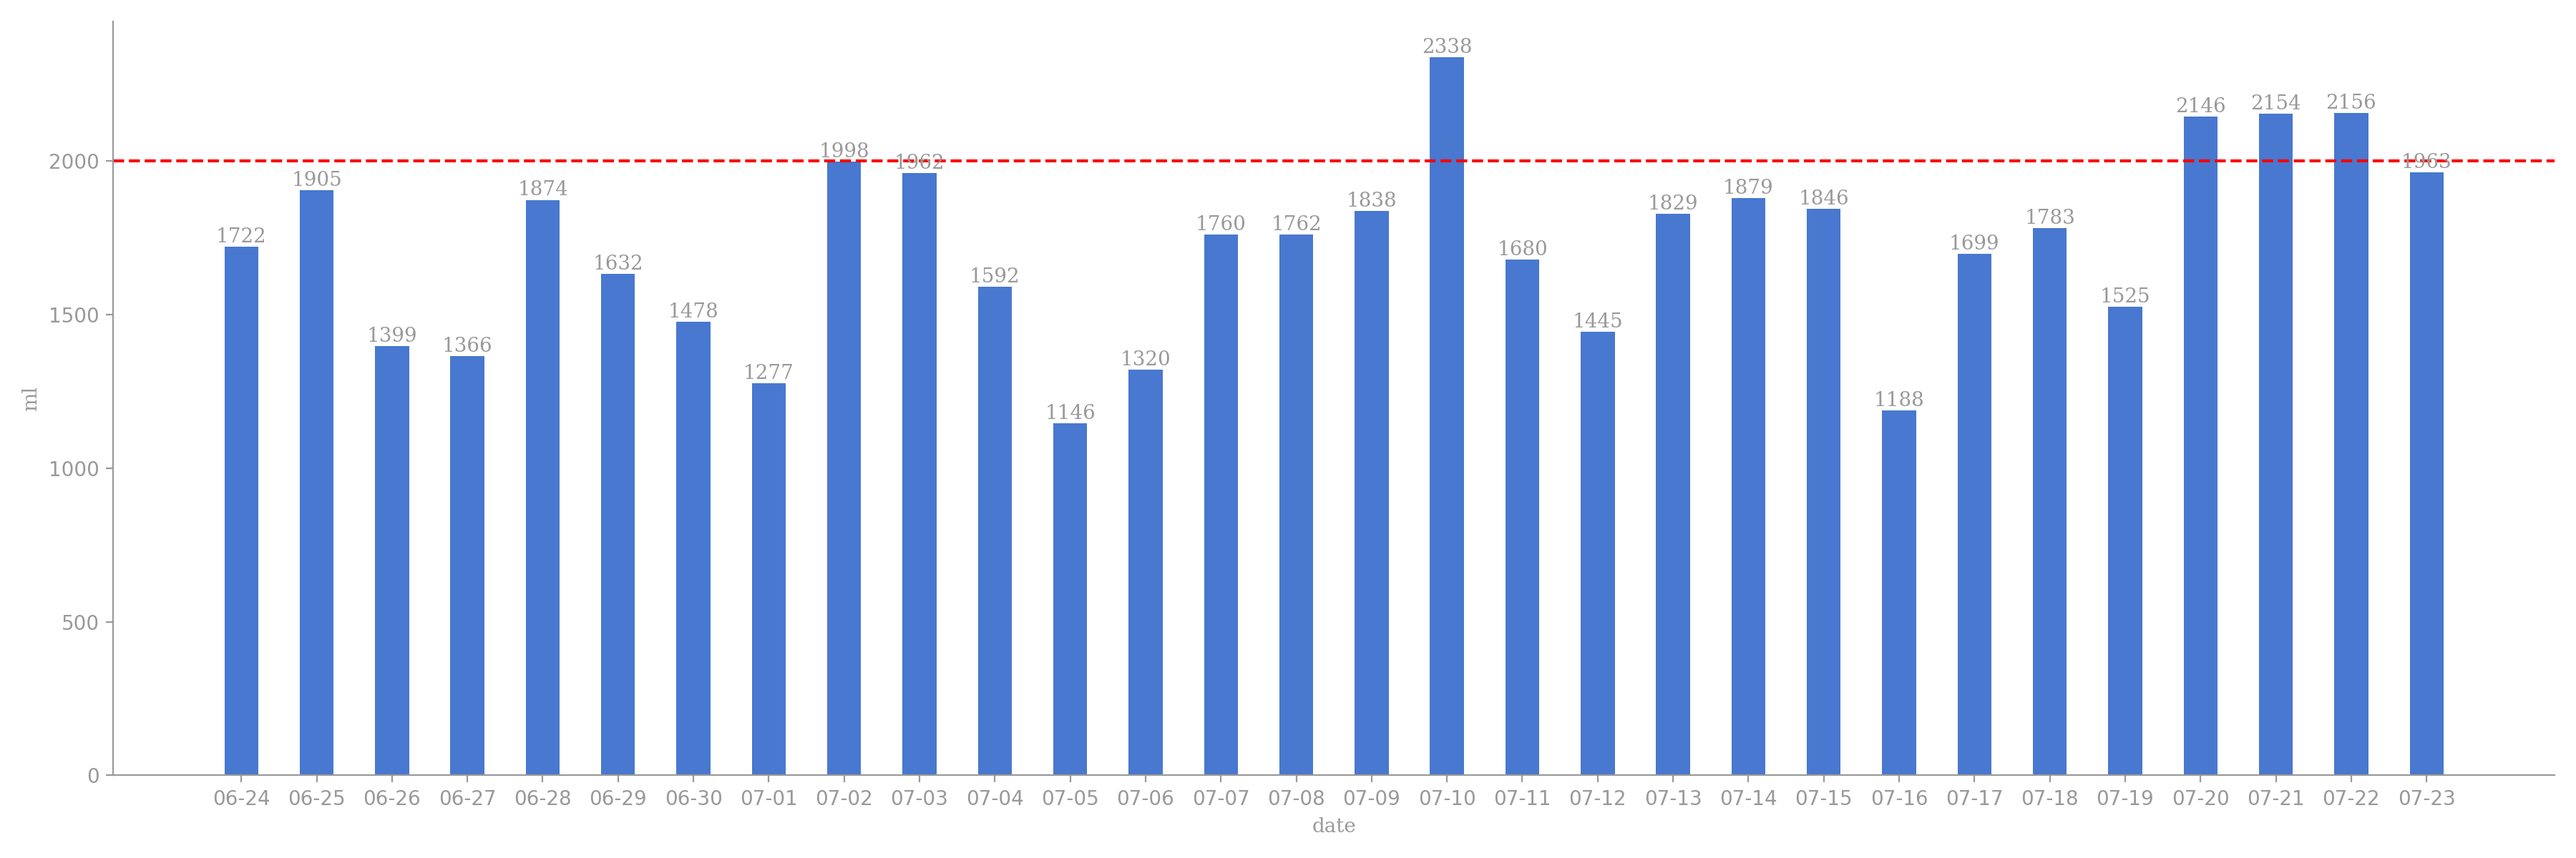
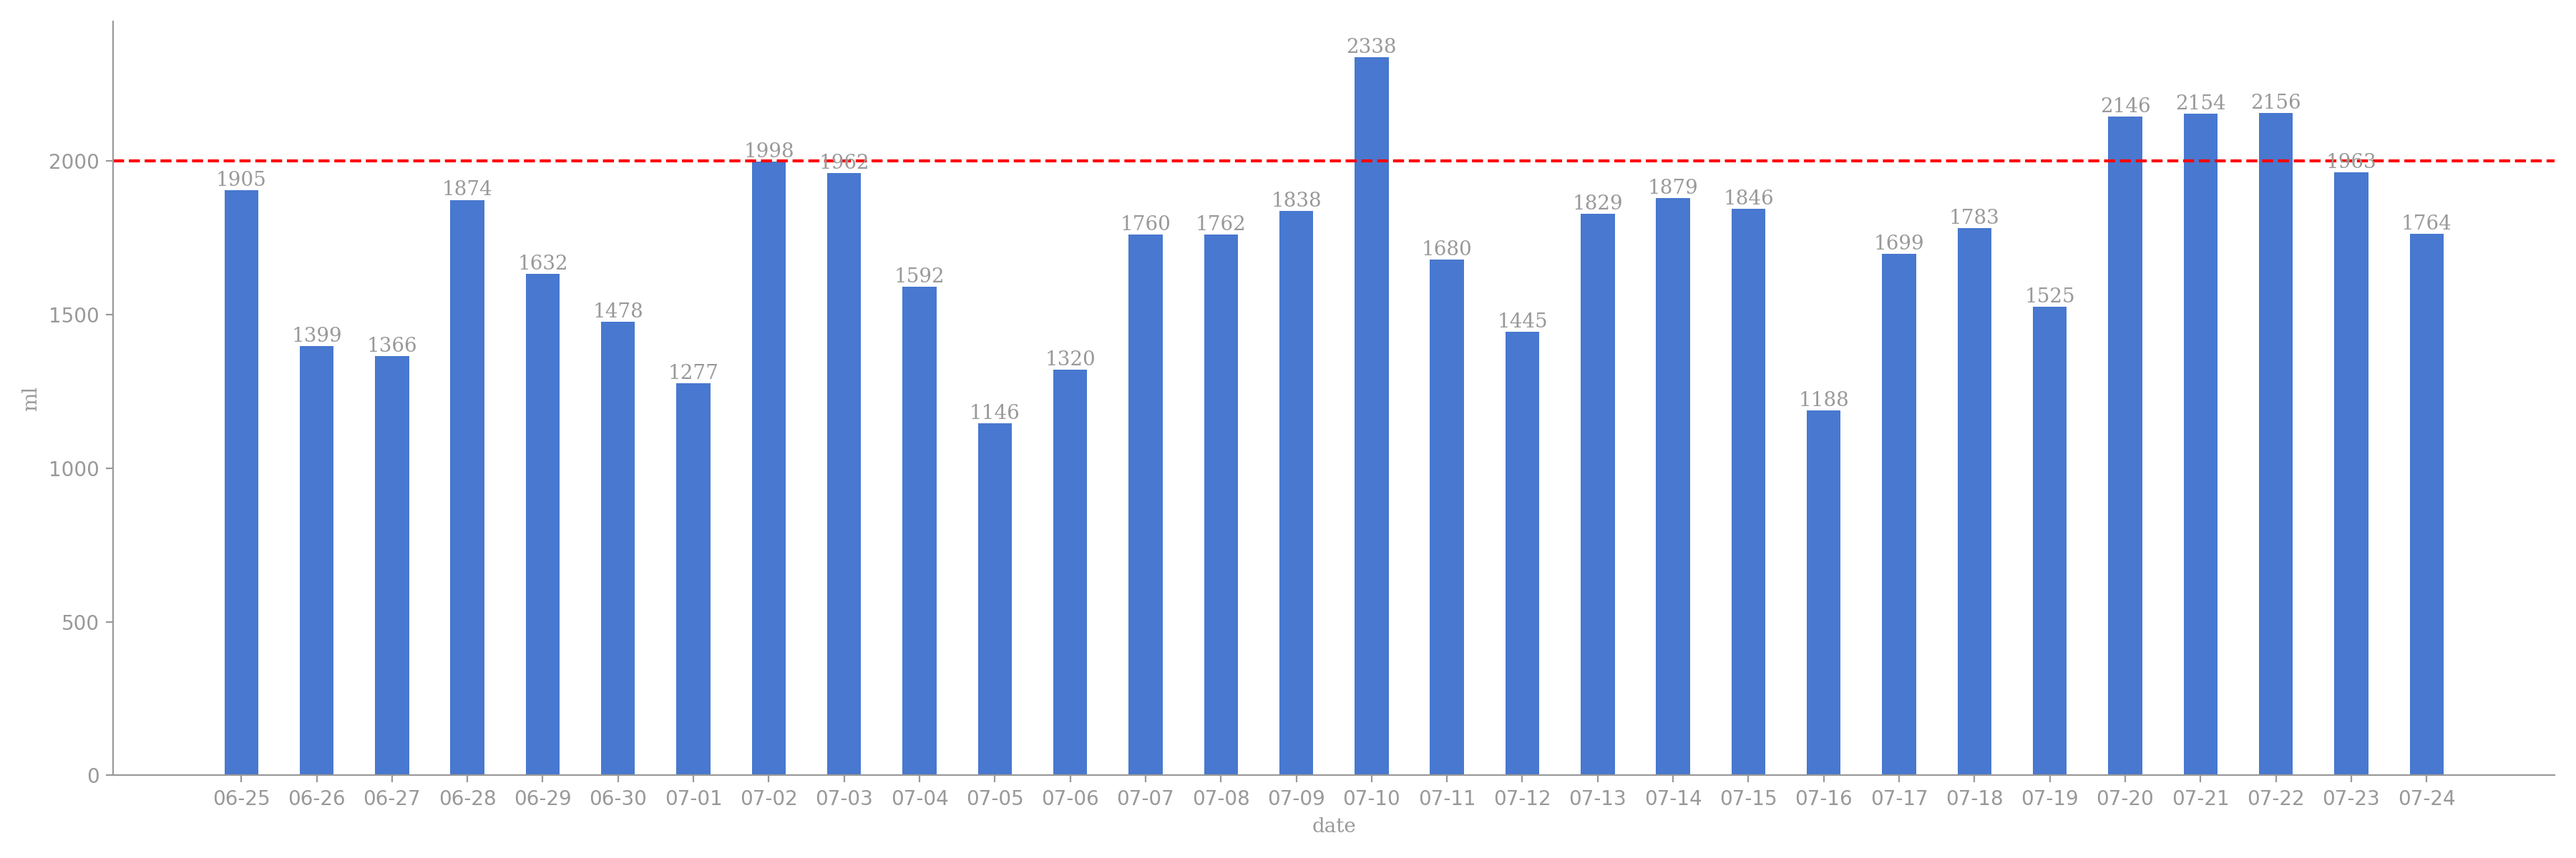
generated readme

diff --git a/README.md b/README.md
@@ -1,17 +1,3 @@
-# 今日饮水数据
-
-<div align=center>
-<img src="today.png" style="zoom: 100%;" />
-
-| 今日总饮水量 | 每小时平均饮水量 |
-| :----: | :----: |
-| 1764 | 126 |
-</div>
-
-| 日期 | 03:39:34 | 08:16:43 | 09:11:50 | 10:12:53 | 11:03:08 | 12:18:25 | 13:02:31 | 13:34:14 | 14:24:05 | 15:13:39 | 15:45:58 | 18:52:15 | 20:03:56 | 21:36:21 | 21:59:04 | 22:19:46 | 23:51:17 |
-| :----: | :----: | :----: | :----: | :----: | :----: | :----: | :----: | :----: | :----: | :----: | :----: | :----: | :----: | :----: | :----: | :----: | :----: |
-| 2024-07-24 | 104 | 126 | 65 | 65 | 76 | 154 | 79 | 114 | 66 | 76 | 130 | 76 | 67 | 300 | 84 | 97 | 85 |
-
 # 近30日饮水数据
 
 <div align=center>
@@ -19,8 +5,12 @@
 
 | 总饮水量 | 日均饮水量 |
 | :----: | :----: |
-| 51662 | 1722 |
+| 51704 | 1723 |
 </div>
+
+| 日期 | all | 03:39:34 | 08:16:43 | 09:11:50 | 10:12:53 | 11:03:08 | 12:18:25 | 13:02:31 | 13:34:14 | 14:24:05 | 15:13:39 | 15:45:58 | 18:52:15 | 20:03:56 | 21:36:21 | 21:59:04 | 22:19:46 | 23:51:17 |
+| :----: | :----: | :----: | :----: | :----: | :----: | :----: | :----: | :----: | :----: | :----: | :----: | :----: | :----: | :----: | :----: | :----: | :----: | :----: |
+| 2024-07-24 | 1764 | 104 | 126 | 65 | 65 | 76 | 154 | 79 | 114 | 66 | 76 | 130 | 76 | 67 | 300 | 84 | 97 | 85 |
 
 | 日期 | all | 00:56:03 | 08:03:27 | 08:25:27 | 08:56:40 | 10:12:25 | 12:17:16 | 13:02:54 | 14:24:41 | 14:49:53 | 16:40:23 | 19:02:21 | 20:04:46 | 20:30:38 | 20:56:11 | 21:31:27 | 22:26:58 | 22:45:29 | 23:07:44 | 23:22:02 | 23:53:15 |
 | :----: | :----: | :----: | :----: | :----: | :----: | :----: | :----: | :----: | :----: | :----: | :----: | :----: | :----: | :----: | :----: | :----: | :----: | :----: | :----: | :----: | :----: |
@@ -141,8 +131,4 @@
 | 日期 | all | 04:32:22 | 05:33:14 | 06:24:58 | 07:52:35 | 08:01:58 | 08:26:43 | 10:00:14 | 12:17:26 | 13:06:49 | 14:01:49 | 15:13:43 | 22:43:04 |
 | :----: | :----: | :----: | :----: | :----: | :----: | :----: | :----: | :----: | :----: | :----: | :----: | :----: | :----: |
 | 2024-06-24 | 1722 | 92 | 97 | 136 | 71 | 229 | 69 | 103 | 230 | 82 | 187 | 126 | 300 |
-
-| 日期 | all | 01:41:19 | 02:38:07 | 03:39:57 | 05:24:27 | 07:07:36 | 08:16:02 | 14:55:29 | 17:38:32 | 18:38:34 | 19:29:57 | 20:56:31 | 22:04:14 |
-| :----: | :----: | :----: | :----: | :----: | :----: | :----: | :----: | :----: | :----: | :----: | :----: | :----: | :----: |
-| 2024-06-23 | 1182 | 127 | 89 | 141 | 57 | 86 | 38 | 300 | 68 | 72 | 56 | 82 | 66 |
 
